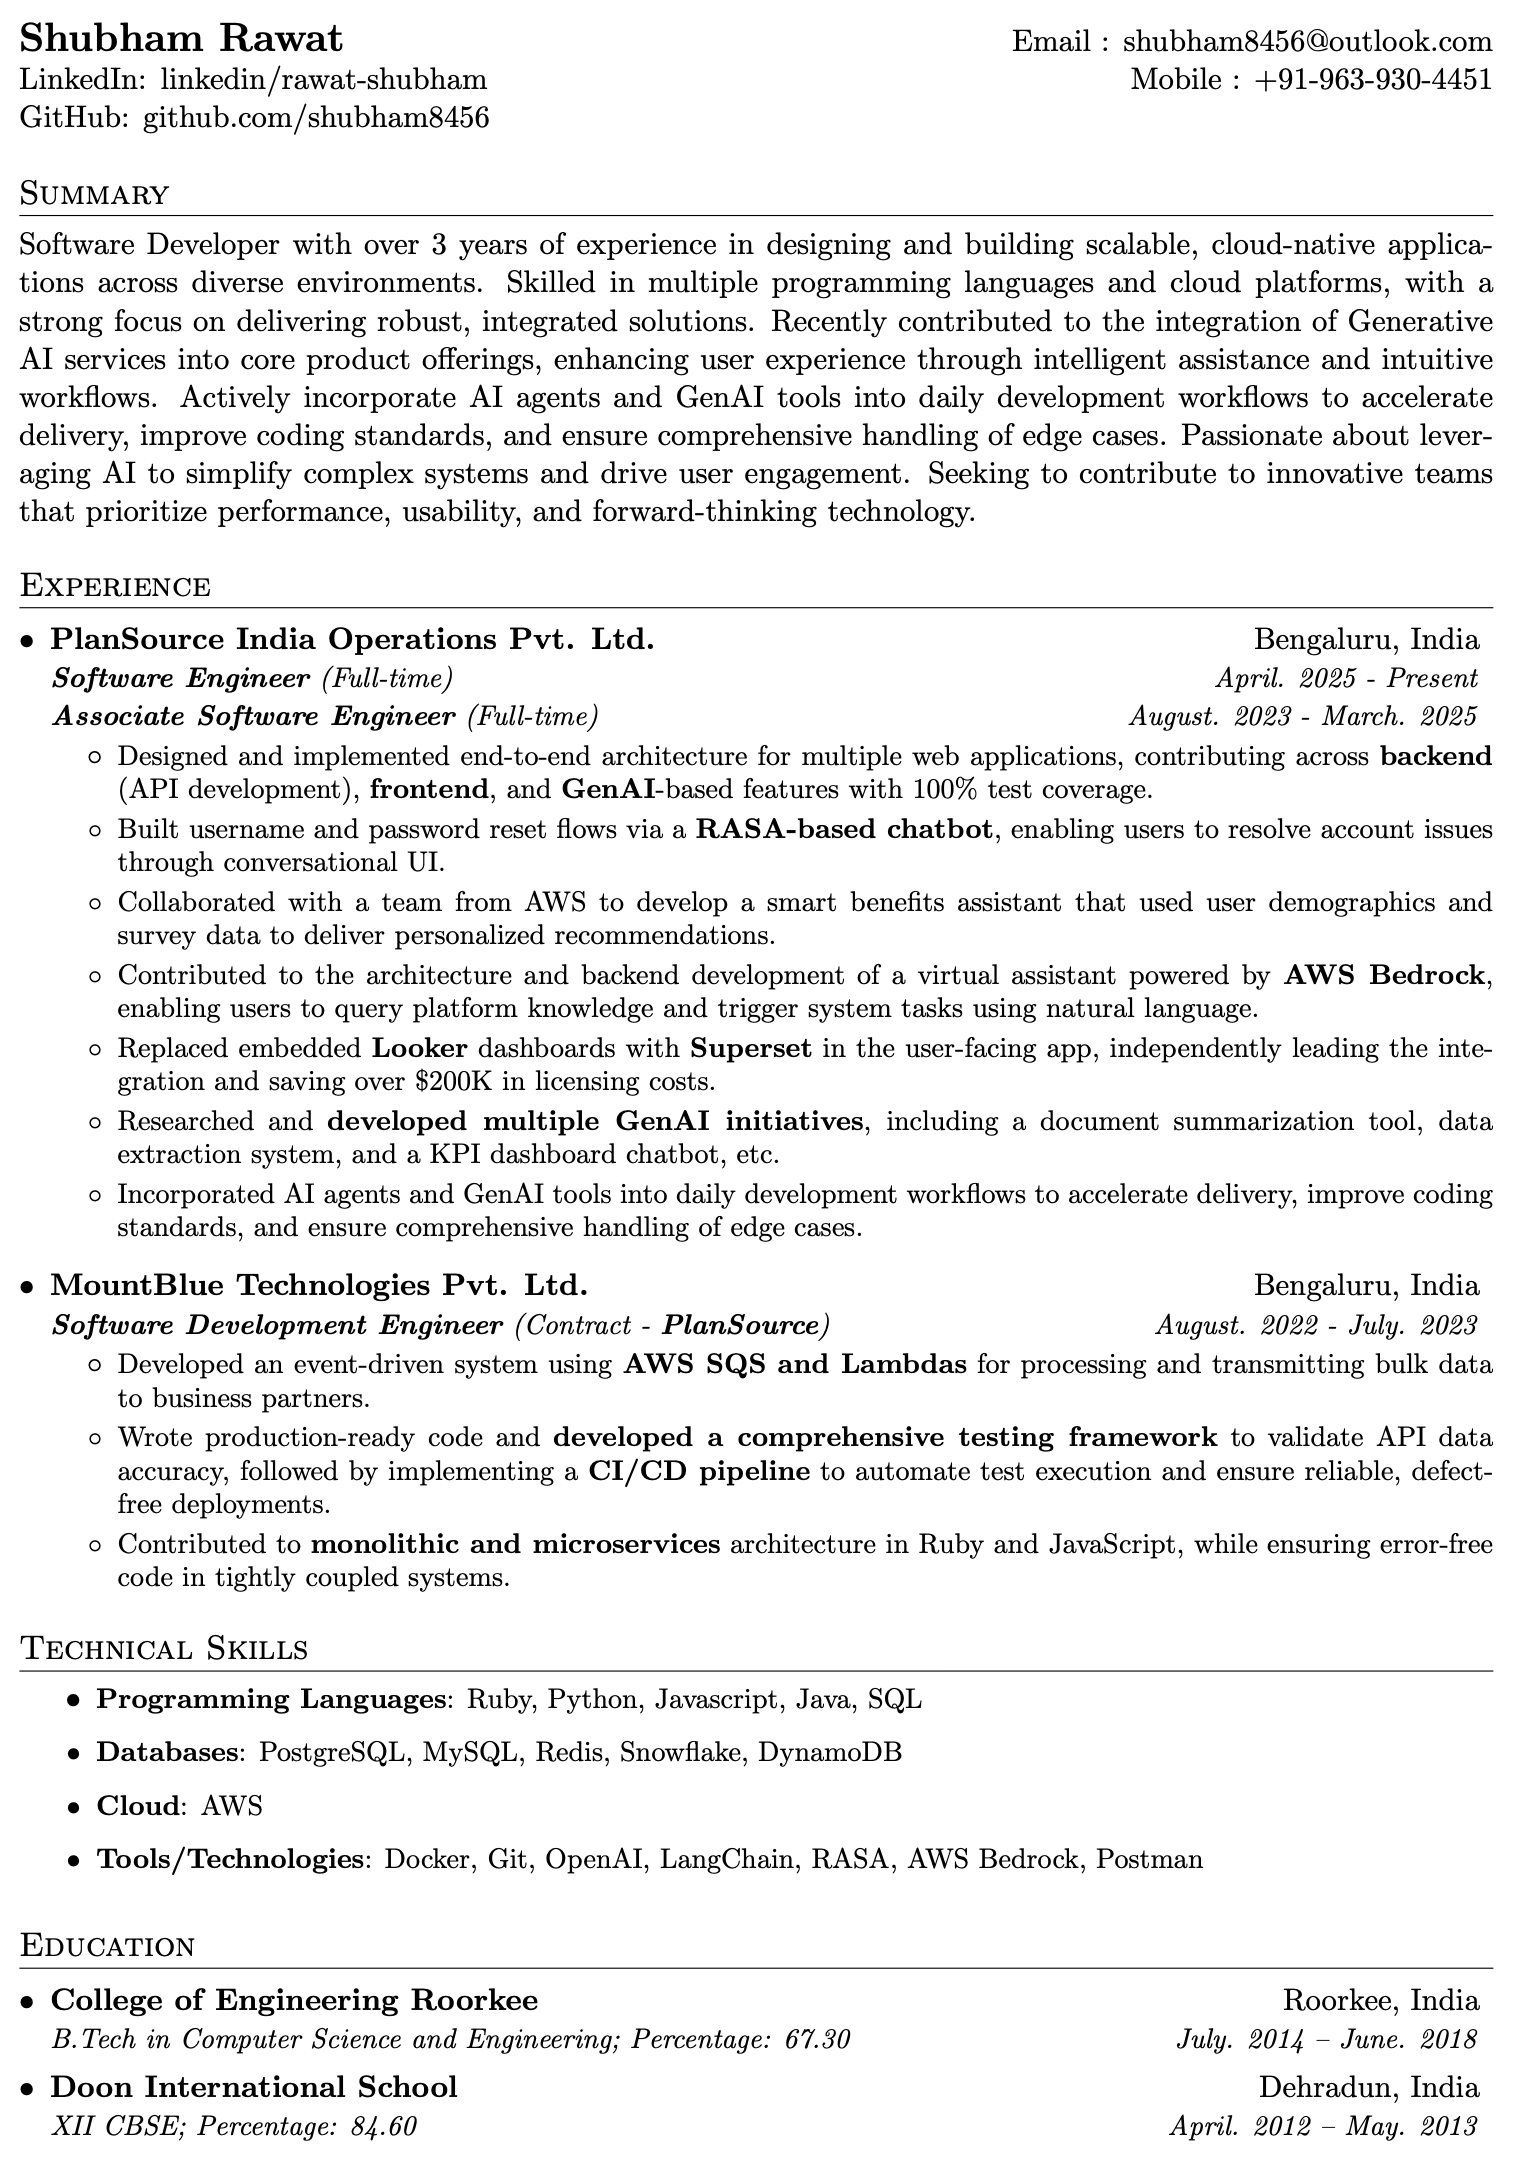
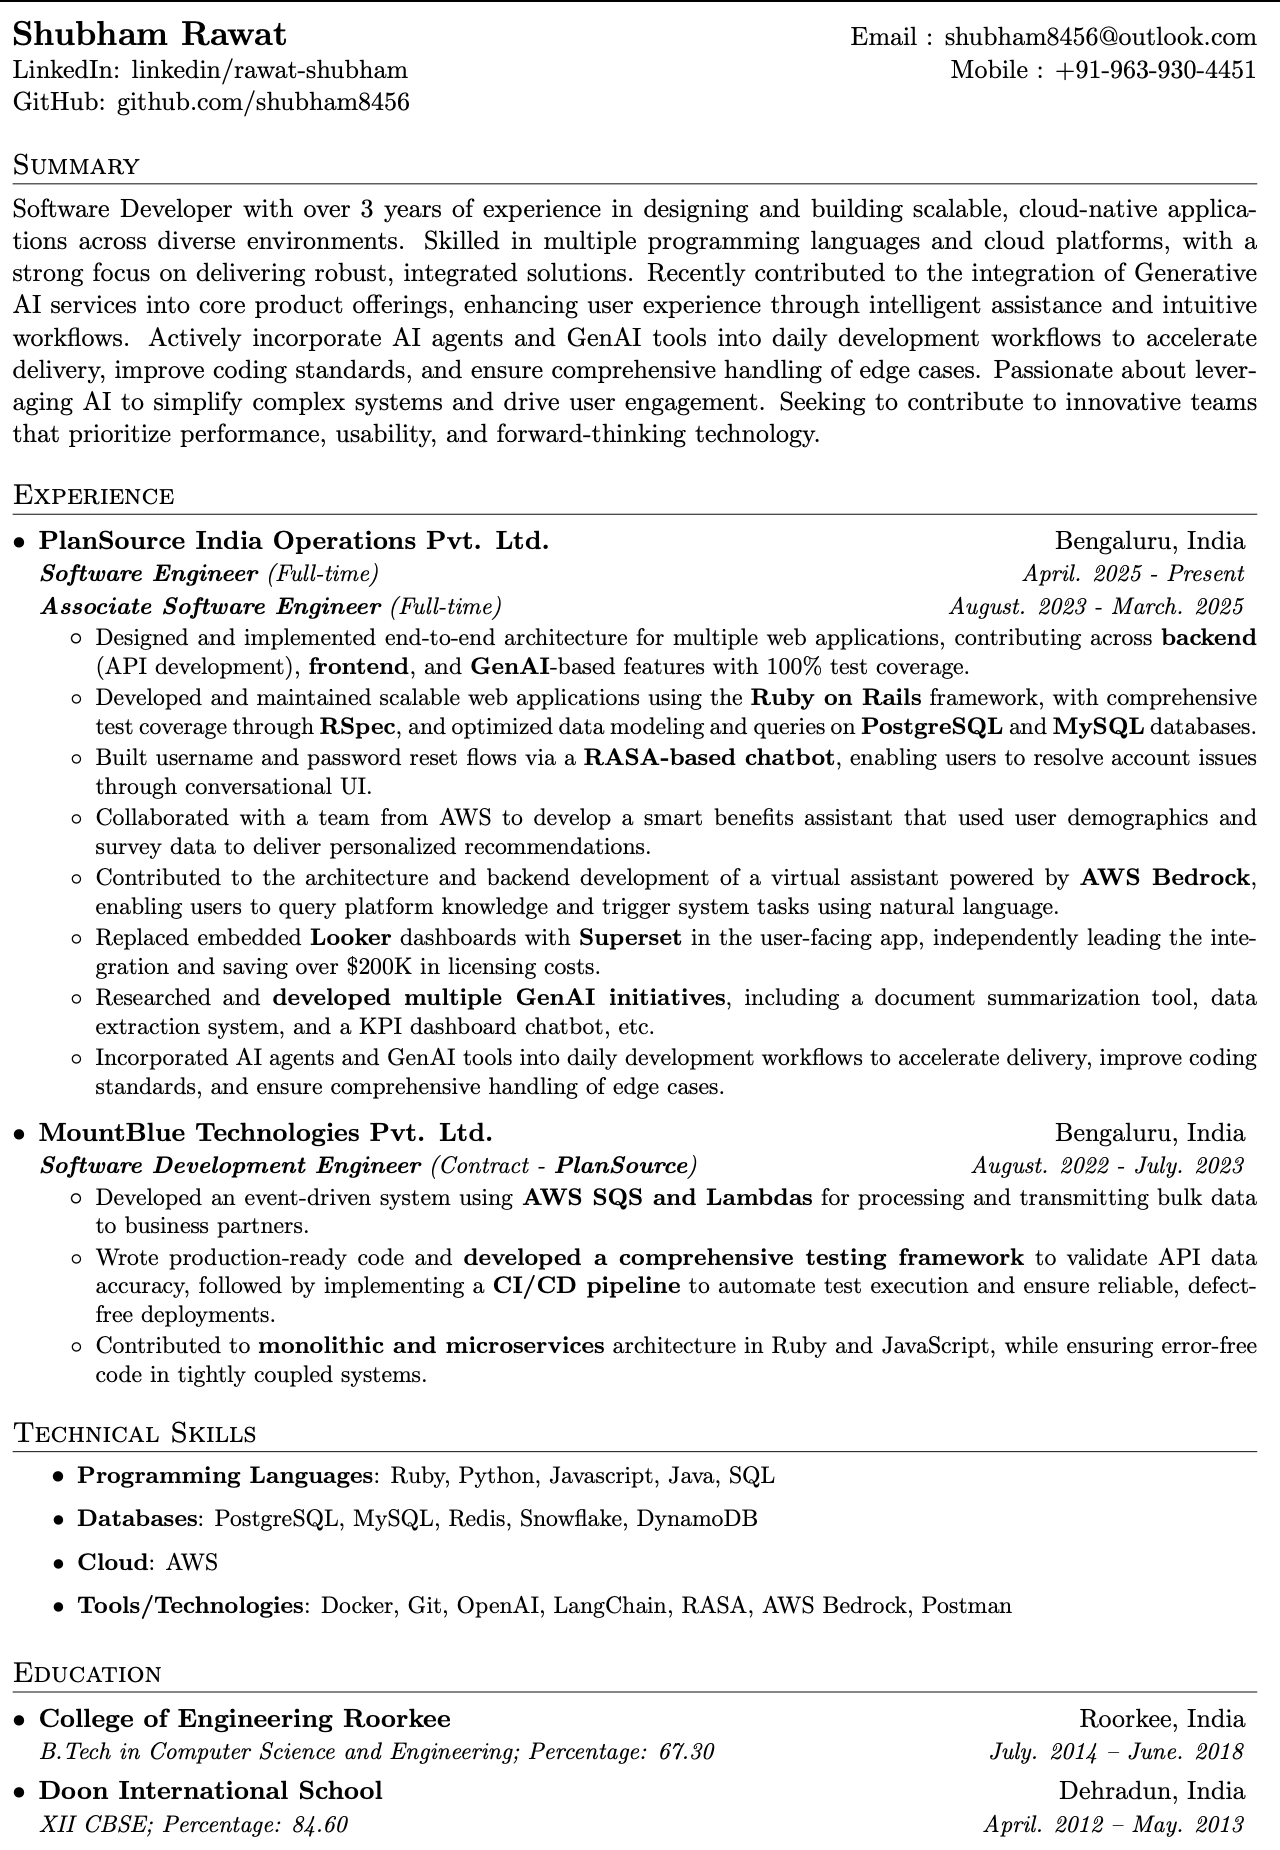
added experience about ruby on rails

Changed region(s): [[0.0, 0.0, 1.0, 1.0], [0.7812, 0.8935, 0.9688, 1.0], [0.6562, 0.0, 1.0, 0.0616]]

diff --git a/shubham_rawat_resume.tex b/shubham_rawat_resume.tex
@@ -136,6 +136,7 @@
       {\textbf{Associate Software Engineer} (Full-time)}{August. 2023 - March. 2025}
       \resumeItemListStart
         \resumeExperienceItem{Designed and implemented end-to-end architecture for multiple web applications, contributing across \textbf{backend} (API development), \textbf{frontend}, and \textbf{GenAI}-based features with 100\% test coverage.}
+        \resumeExperienceItem{Developed and maintained scalable web applications using the \textbf{Ruby on Rails} framework, with comprehensive test coverage through \textbf{RSpec}, and optimized data modeling and queries on \textbf{PostgreSQL} and \textbf{MySQL} databases.}
         \resumeExperienceItem{Built username and password reset flows via a \textbf{RASA-based chatbot}, enabling users to resolve account issues through conversational UI.}
         \resumeExperienceItem{Collaborated with a team from AWS to develop a smart benefits assistant that used user demographics and survey data to deliver personalized recommendations.}
         \resumeExperienceItem{Contributed to the architecture and backend development of a virtual assistant powered by \textbf{AWS Bedrock}, enabling users to query platform knowledge and trigger system tasks using natural language.}
